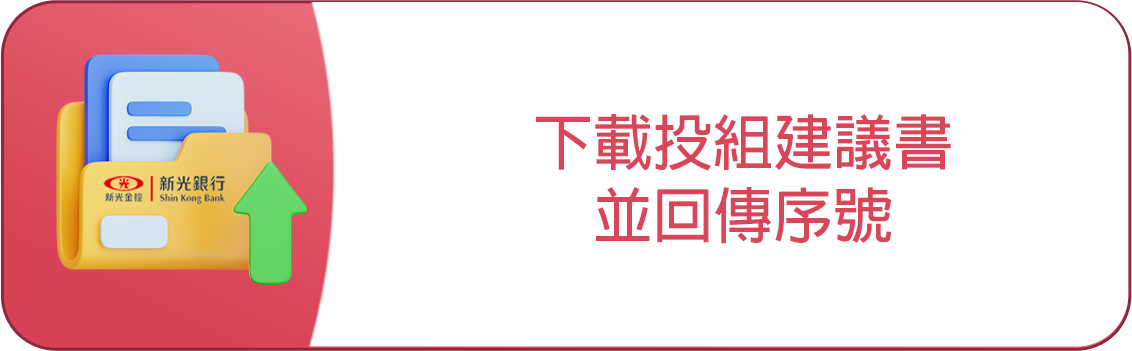
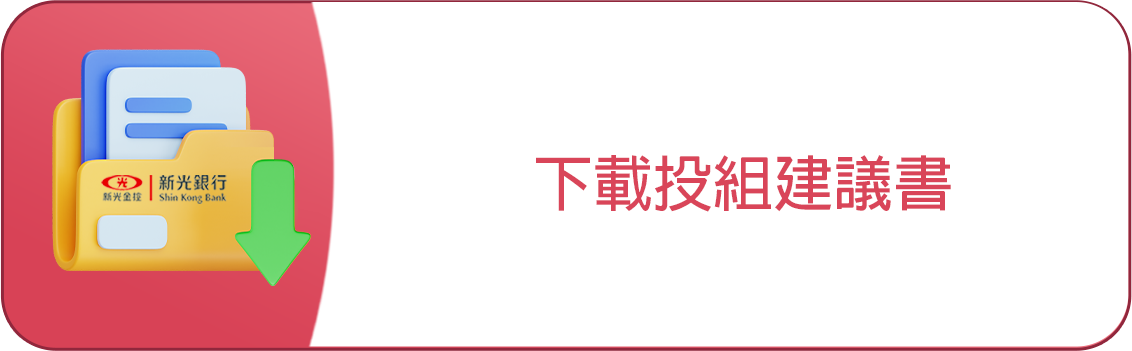
修改新光活動頁demo

Changed region(s): [[0.4638, 0.3134, 0.8657, 0.7123], [0.0309, 0.1425, 0.2783, 0.8262], [0.2164, 0.3134, 0.2473, 0.3419]]

diff --git a/demo/html/index.html b/demo/html/index.html
@@ -52,16 +52,23 @@ j=d.createElement(s),dl=l!='dataLayer'?'&l='+l:'';j.async=true;j.src=
 			</nav>
 		</div>
 	</header>
-	<div class="fab" style="display: none;">
+	<div class="fab desk" style="display: none;">
+		<img class="fab-img" src="img/img-coins.png">
 		<a href="https://lin.ee/o2GTIsV" target="_blank">
 			<img src="img/fab-icon.png" >
-			<p>加入LINE立即體驗<br>
-完成任務抽萬元好禮</p>
+			<p>完成任務<br>
+送萬元好禮</p>
+		</a>
+	</div>
+	<div class="fab-mb mb">
+		<a class="text-center" href="https://lin.ee/o2GTIsV" target="_blank">
+			<img src="img/fab-mb.png" >
 		</a>
 	</div>
 	<div>
 		<div id="top" class="kv">
-			<img src="img/kv-l.png">
+			<img class="desk" src="img/kv-l.png">
+			<img class="mb" src="img/kv-mb.png">
 			<div class="template shine large"></div>
 			<div class="template shine medium" style="animation-delay: 2.2s;"></div>
 			<div class="template shine small" style="animation-delay: 0.8s;"></div>
@@ -69,12 +76,15 @@ j=d.createElement(s),dl=l!='dataLayer'?'&l='+l:'';j.async=true;j.src=
 	</div>
 	<section class="s1">
 		<div class="container">
-			<div class="mb-5"><h1 class="h1-title text-center color-primary"><span></span>理財Dr.光是什麼<span></span></h1></div>
+			<div class="mb-5">
+				<h1 class="h1-title text-center color-primary mb-4"><span></span>理財Dr.光是什麼<span></span></h1>
+				<h2 class="text-center yt-link pb-4"><a class="color-primary" href="#" target="_blank"><img src="img/icon-yt.png">觀看「理財Dr.光」介紹影片</a></h2>
+			</div>
 			<div class="mb-5">
 				<div class="s1-text animate fadeIn wow" >
 					<h2 class="title color-primary">量身打造投資組合</h2>
 					<h3 class="mb-3 color-primary">簡單投：有AI規劃好輕鬆</h3>
-					<h4>海量大數據，上千檔基金與ETF，用最少的力氣，<br>
+					<h4>海量大數據，上千檔基金與ETF，用最少的力氣，<br class="desk">
 					打造適合你可攻可守的理財規劃</h4>
 				</div>
 				<div class="row s1-img">
@@ -106,7 +116,7 @@ j=d.createElement(s),dl=l!='dataLayer'?'&l='+l:'';j.async=true;j.src=
 						<h2 class="title color-primary">一手掌握投資動向</h2>
 						<h3 class="mb-3 color-primary">靈活投：24H服務<br>AI投資策略建議，投組彈性選配
 </h3>
-						<h4>可加入喜歡的投資標的，且不受時間、空間限制，<br>線上即可完成投資建議書，</h4>
+						<h4>可加入喜歡的投資標的，且不受時間、空間限制，<br class="desk">線上即可完成投資建議書，</h4>
 					</div>
 
 					<div class="col-md-5 col-sm-12 align-self-xl-center mt-4 animate fadeInRight wow" animation-delay=".5s" animation-duration="2s">
@@ -277,14 +287,14 @@ j=d.createElement(s),dl=l!='dataLayer'?'&l='+l:'';j.async=true;j.src=
 			<div class="row mb-4">
 				<div class="col-sm-12">
 					<div class="title mb-3"><img src="img/s5-title.png"></div>
-					<h4>活動期間：即日起至2023年12月31日</h4>
+					<h4>活動期間：即日起至113年1月31日止</h4>
 					<h4>參加資格：本國自然人存戶，且完成綁定本行LINE個人化服務者</h4>
 					<h4>活動內容：</h4>
 				</div>
 				<div class="text row">
 					<div class="col-md-6 col-sm-12 mb-4">
 						<h5><span class="tag">活動一</span></h5>
-						<p>活動期間下載投組建議書並於本行LINE官方帳號<br>上傳序號即可抽LINE POINTS 100點(共50名)。</p>
+						<p>活動期間內下載投組建議書即可抽LINE POINTS 100點(共50名)。</p>
 					</div>
 					<div class="col-md-6 col-sm-12 mb-4">
 						<h5><span class="tag">活動二</span></h5>
@@ -351,20 +361,20 @@ j=d.createElement(s),dl=l!='dataLayer'?'&l='+l:'';j.async=true;j.src=
 						<p>開始體驗理財Dr.光</p>
 					</div>
 				</div>
-				<div class="item">
+				<div class="item  item-r">
 					<img src="img/s7-img4.png">
 					<div class="text text-center">
 						<div class="tag"><span>4</span></div>
 						<p>下載投組建議書</p>
 					</div>
 				</div>
-				<div class="item item-r">
+				<!-- <div class="item item-r">
 					<img src="img/s7-img5.png">
 					<div class="text text-center">
 						<div class="tag"><span>5</span></div>
 						<p>回LINE點擊我要報名<br>上傳建議書序號截圖</p>
 					</div>
-				</div>
+				</div> -->
 			</div>
 		</div>
 	</section>
@@ -373,11 +383,12 @@ j=d.createElement(s),dl=l!='dataLayer'?'&l='+l:'';j.async=true;j.src=
 			<div class="text-center s7-button"><a href="javascript:void(0)"><h3>活動辦法與注意事項</h3></a></div>
 			<div class="s7-text mt-4">
 				<ol>
-				<li>活動期間：即日起至112年12月31日止，以新光銀行(下稱「本行」)系統登載之日期為準。</li>
+				<li>活動期間：即日起至113年1月31日止，以新光銀行(下稱「本行」)系統登載之日期為準。</li>
 				<li>參加資格：本國自然人存戶，且完成綁定本行LINE個人化服務者。</li>
 				<li>活動內容： 
 					<ol>
-						<li>活動一：活動期間完成體驗並下載理財Dr.光投資組合建議書，於本行LINE官方帳號圖文選單點擊「理財Dr.光」活動專區，再上傳「建議書編號」即可獲得抽獎機會，有機會獲得LINE POINTS 100點。</li>
+						<li>活動一：活動期間內完成理財理財Dr.光體驗並下載投組建議書即符合LINE POINTS 100點(共50名)抽獎資格。
+</li>
 
 						<li>活動二：完成活動一且於活動期間內設定LINE匯率到價通知或透過LINE個人專屬推薦連結成功推薦任一親友於活動期間內首次完成LINE個人化綁定，可再抽Marshall藍牙喇叭、新光三越一萬元禮券。</li>
 						<li>活動三：綁定本行LINE官方帳號個人化服務並完成指定貼文互動，即可抽LINE POINTS 30點(預計4波，共計200名)。</li>
@@ -492,7 +503,7 @@ j=d.createElement(s),dl=l!='dataLayer'?'&l='+l:'';j.async=true;j.src=
     <script type="text/javascript">
     	$('.slick-item').slick({
 		  centerMode: true,
-		  slidesToShow: 5,
+		  slidesToShow: 4,
 		  responsive: [
 		    {
 		      breakpoint: 768,

diff --git a/demo/html/css/style.css b/demo/html/css/style.css
@@ -494,9 +494,6 @@ color: #430000!important;
   right: 0;
   top: 20%;
   z-index: 2;
-    overflow: hidden;
-      box-shadow: 0 4px 16px rgba(0, 0, 0, .5);
-  border-radius: 16px 0 0 16px;
 }
 .fab a {
   display: inline-block;
@@ -513,6 +510,10 @@ background: #d9a141; /* Old browsers */
 background: -moz-linear-gradient(45deg,  #d9a141 0%, #e7b549 100%); /* FF3.6-15 */
 background: -webkit-linear-gradient(45deg,  #d9a141 0%,#e7b549 100%); /* Chrome10-25,Safari5.1-6 */
 background: linear-gradient(45deg,  #d9a141 0%,#e7b549 100%); /* W3C, IE10+, FF16+, Chrome26+, Opera12+, Safari7+ */
+  border-radius: 16px 0 0 16px;
+      box-shadow: 0 4px 16px rgba(0, 0, 0, .5);
+z-index: 3;
+    overflow: hidden;
 
 }
 .fab a:after{
@@ -679,3 +680,61 @@ width: 8%;
     opacity: 0;
   }
 }
+
+.fab-img {
+  position: absolute;
+    transform: translateY(-100%);
+    z-index: 1;
+        top: 8px;
+  width: 90%;
+}
+
+.yt-link a {
+  text-decoration: none;
+  font-weight: 500;
+      color: #d4374e;
+}
+
+.yt-link  img {
+    width: 54px;
+    position: relative;
+    top: -2px;
+    margin-right: 8px;
+}
+.fab-mb {
+  position: fixed;
+  bottom: 48px;
+  z-index: 99;
+  width: 100%;
+  text-align: center;
+}
+.fab-mb img {
+  width: 95%;
+  max-width: 480px;
+}
+@media (max-width: 768px) {
+  .fab.desk {
+    display: none!important;
+  }
+  .h1-title {
+    font-size: 2rem;
+  }
+  .h1-title span {
+    width: 30px;
+  }
+  .yt-link a {
+    width: 24px;
+  }
+  .yt-link img {
+    width: 36px;
+  }
+  .s2 .btn-l {
+        font-size: 15px;
+  }
+  .s7 {
+    padding-bottom: 120px; 
+  }
+}
+
+
+

diff --git a/demo/html/css/rwd.css b/demo/html/css/rwd.css
@@ -190,10 +190,10 @@ nav a.active{
       text-align: center;
 }
 .s5 img.s5-icon {
-  width: 20%;
+  width: 16%;
 }
 .s5 .s5-icon2 {
-    max-width: 20%;
+    max-width: 15%;
     margin: 8px 0;
 }
 .s5-2 {
